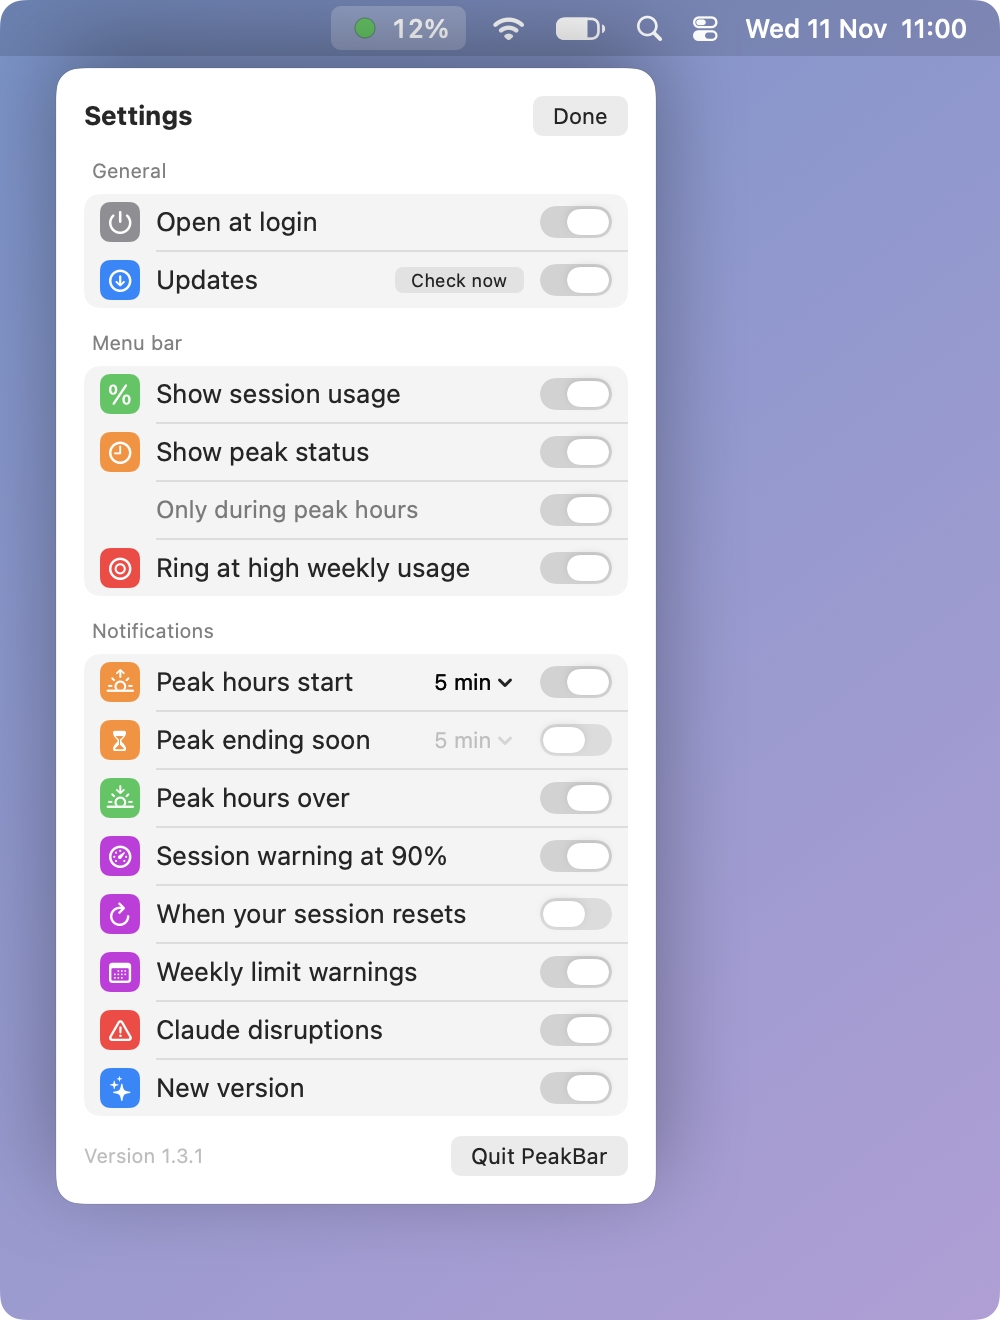
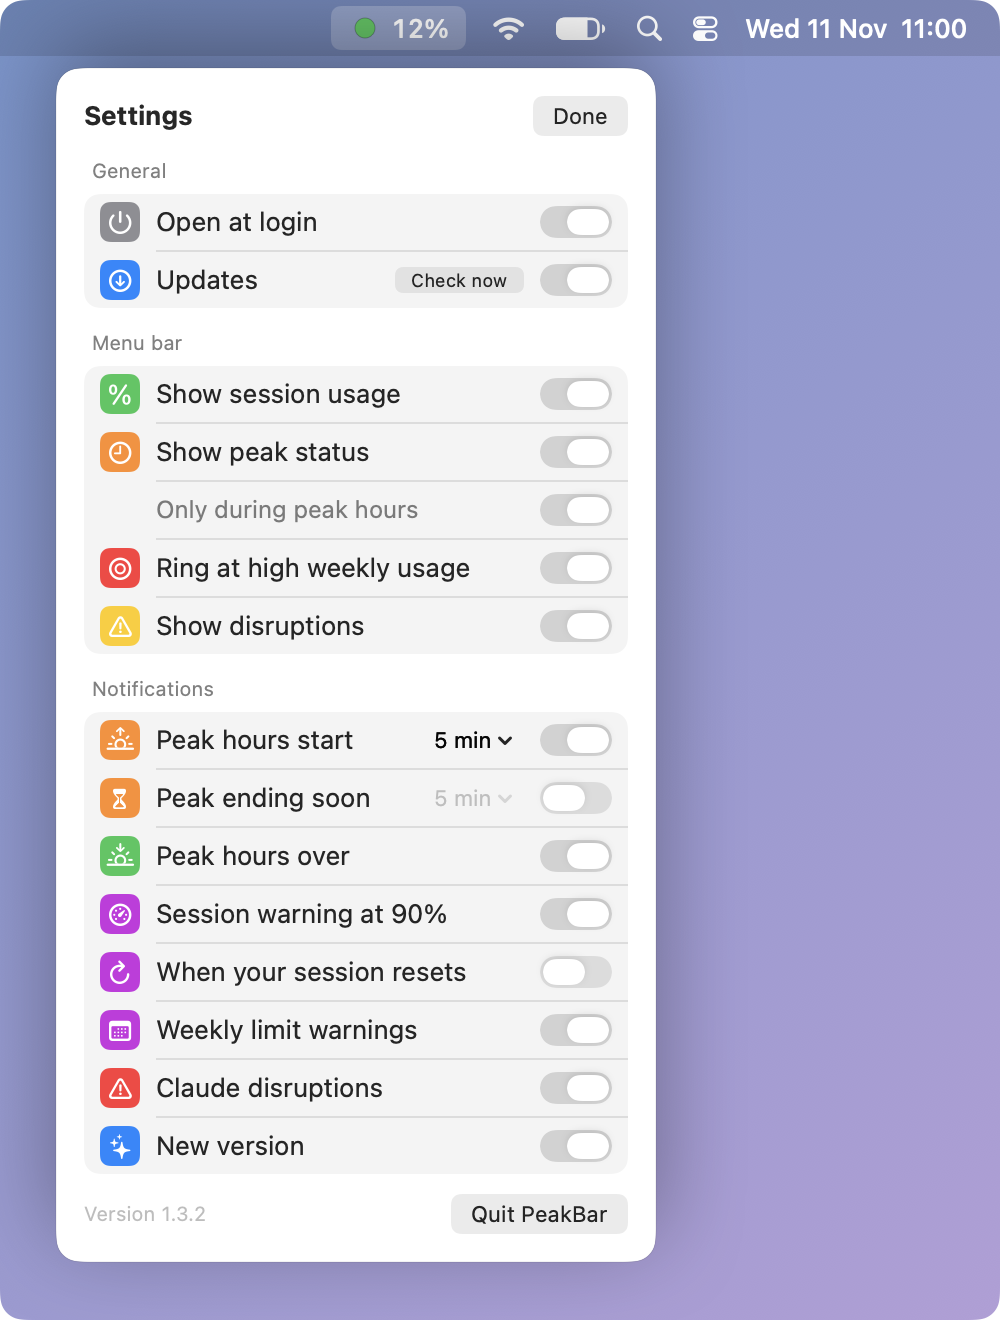
Version 1.3.2: Show disruptions setting, Dutch labels fit

diff --git a/CHANGELOG.md b/CHANGELOG.md
@@ -1,6 +1,6 @@
 # Changelog
 
-## Unreleased
+## 1.3.2
 
 ### New
 
